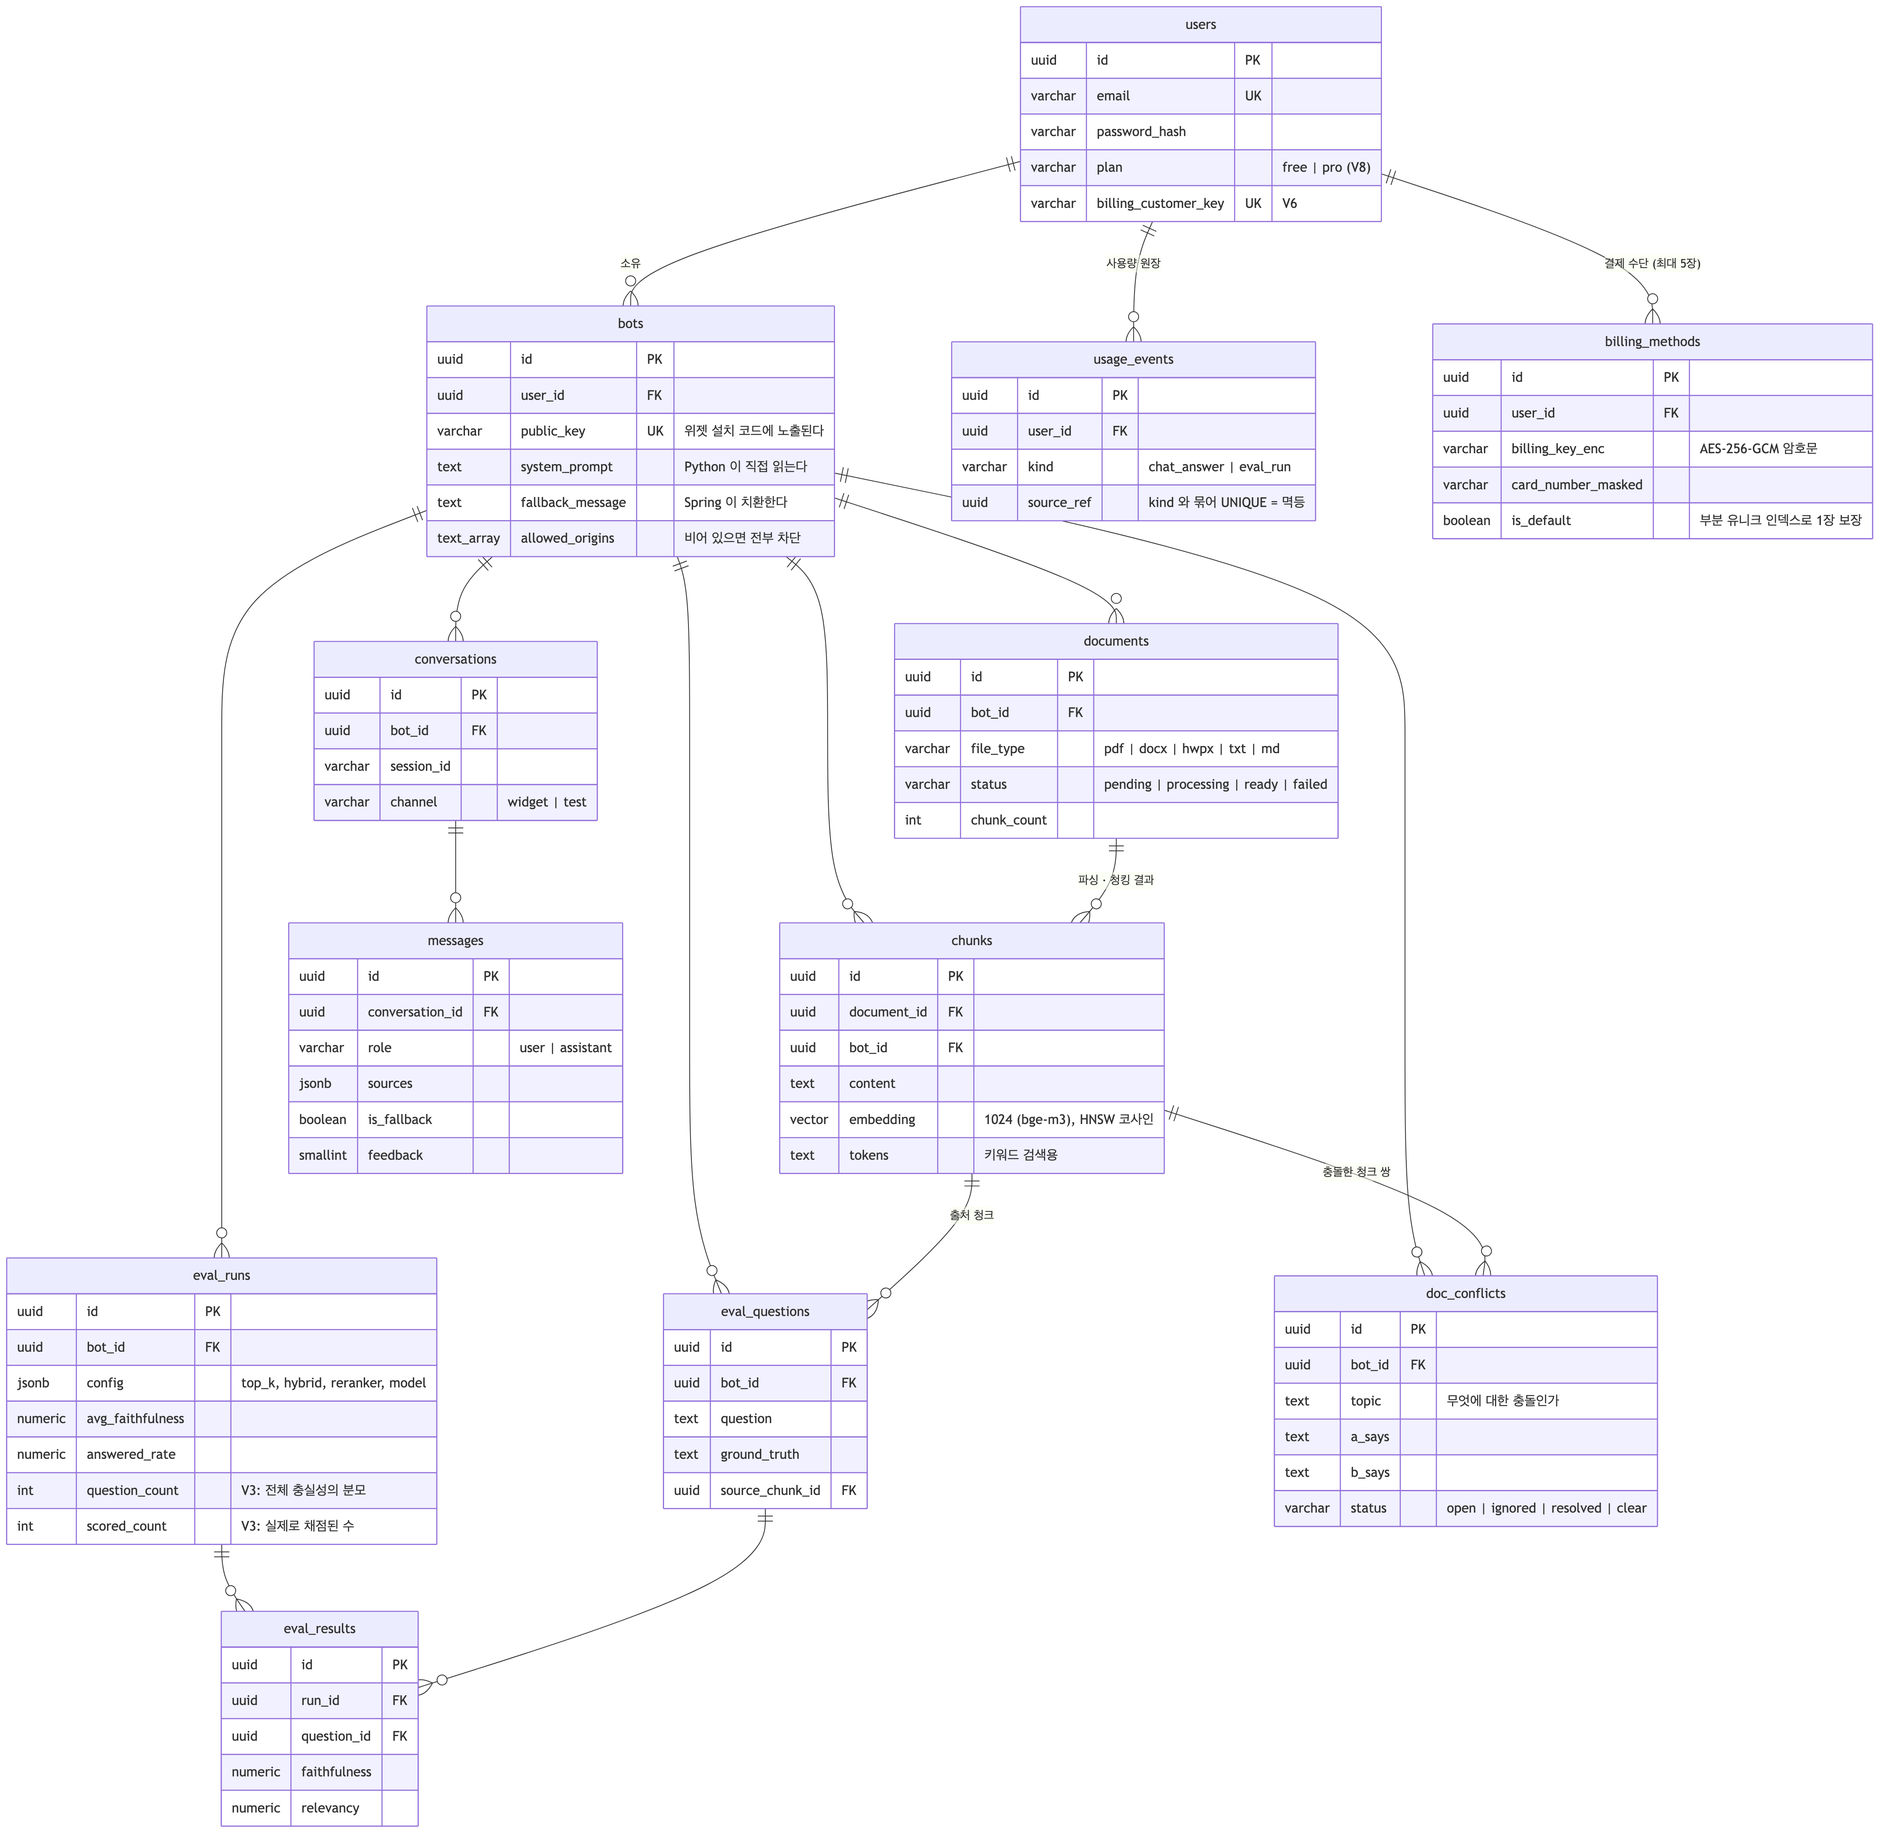
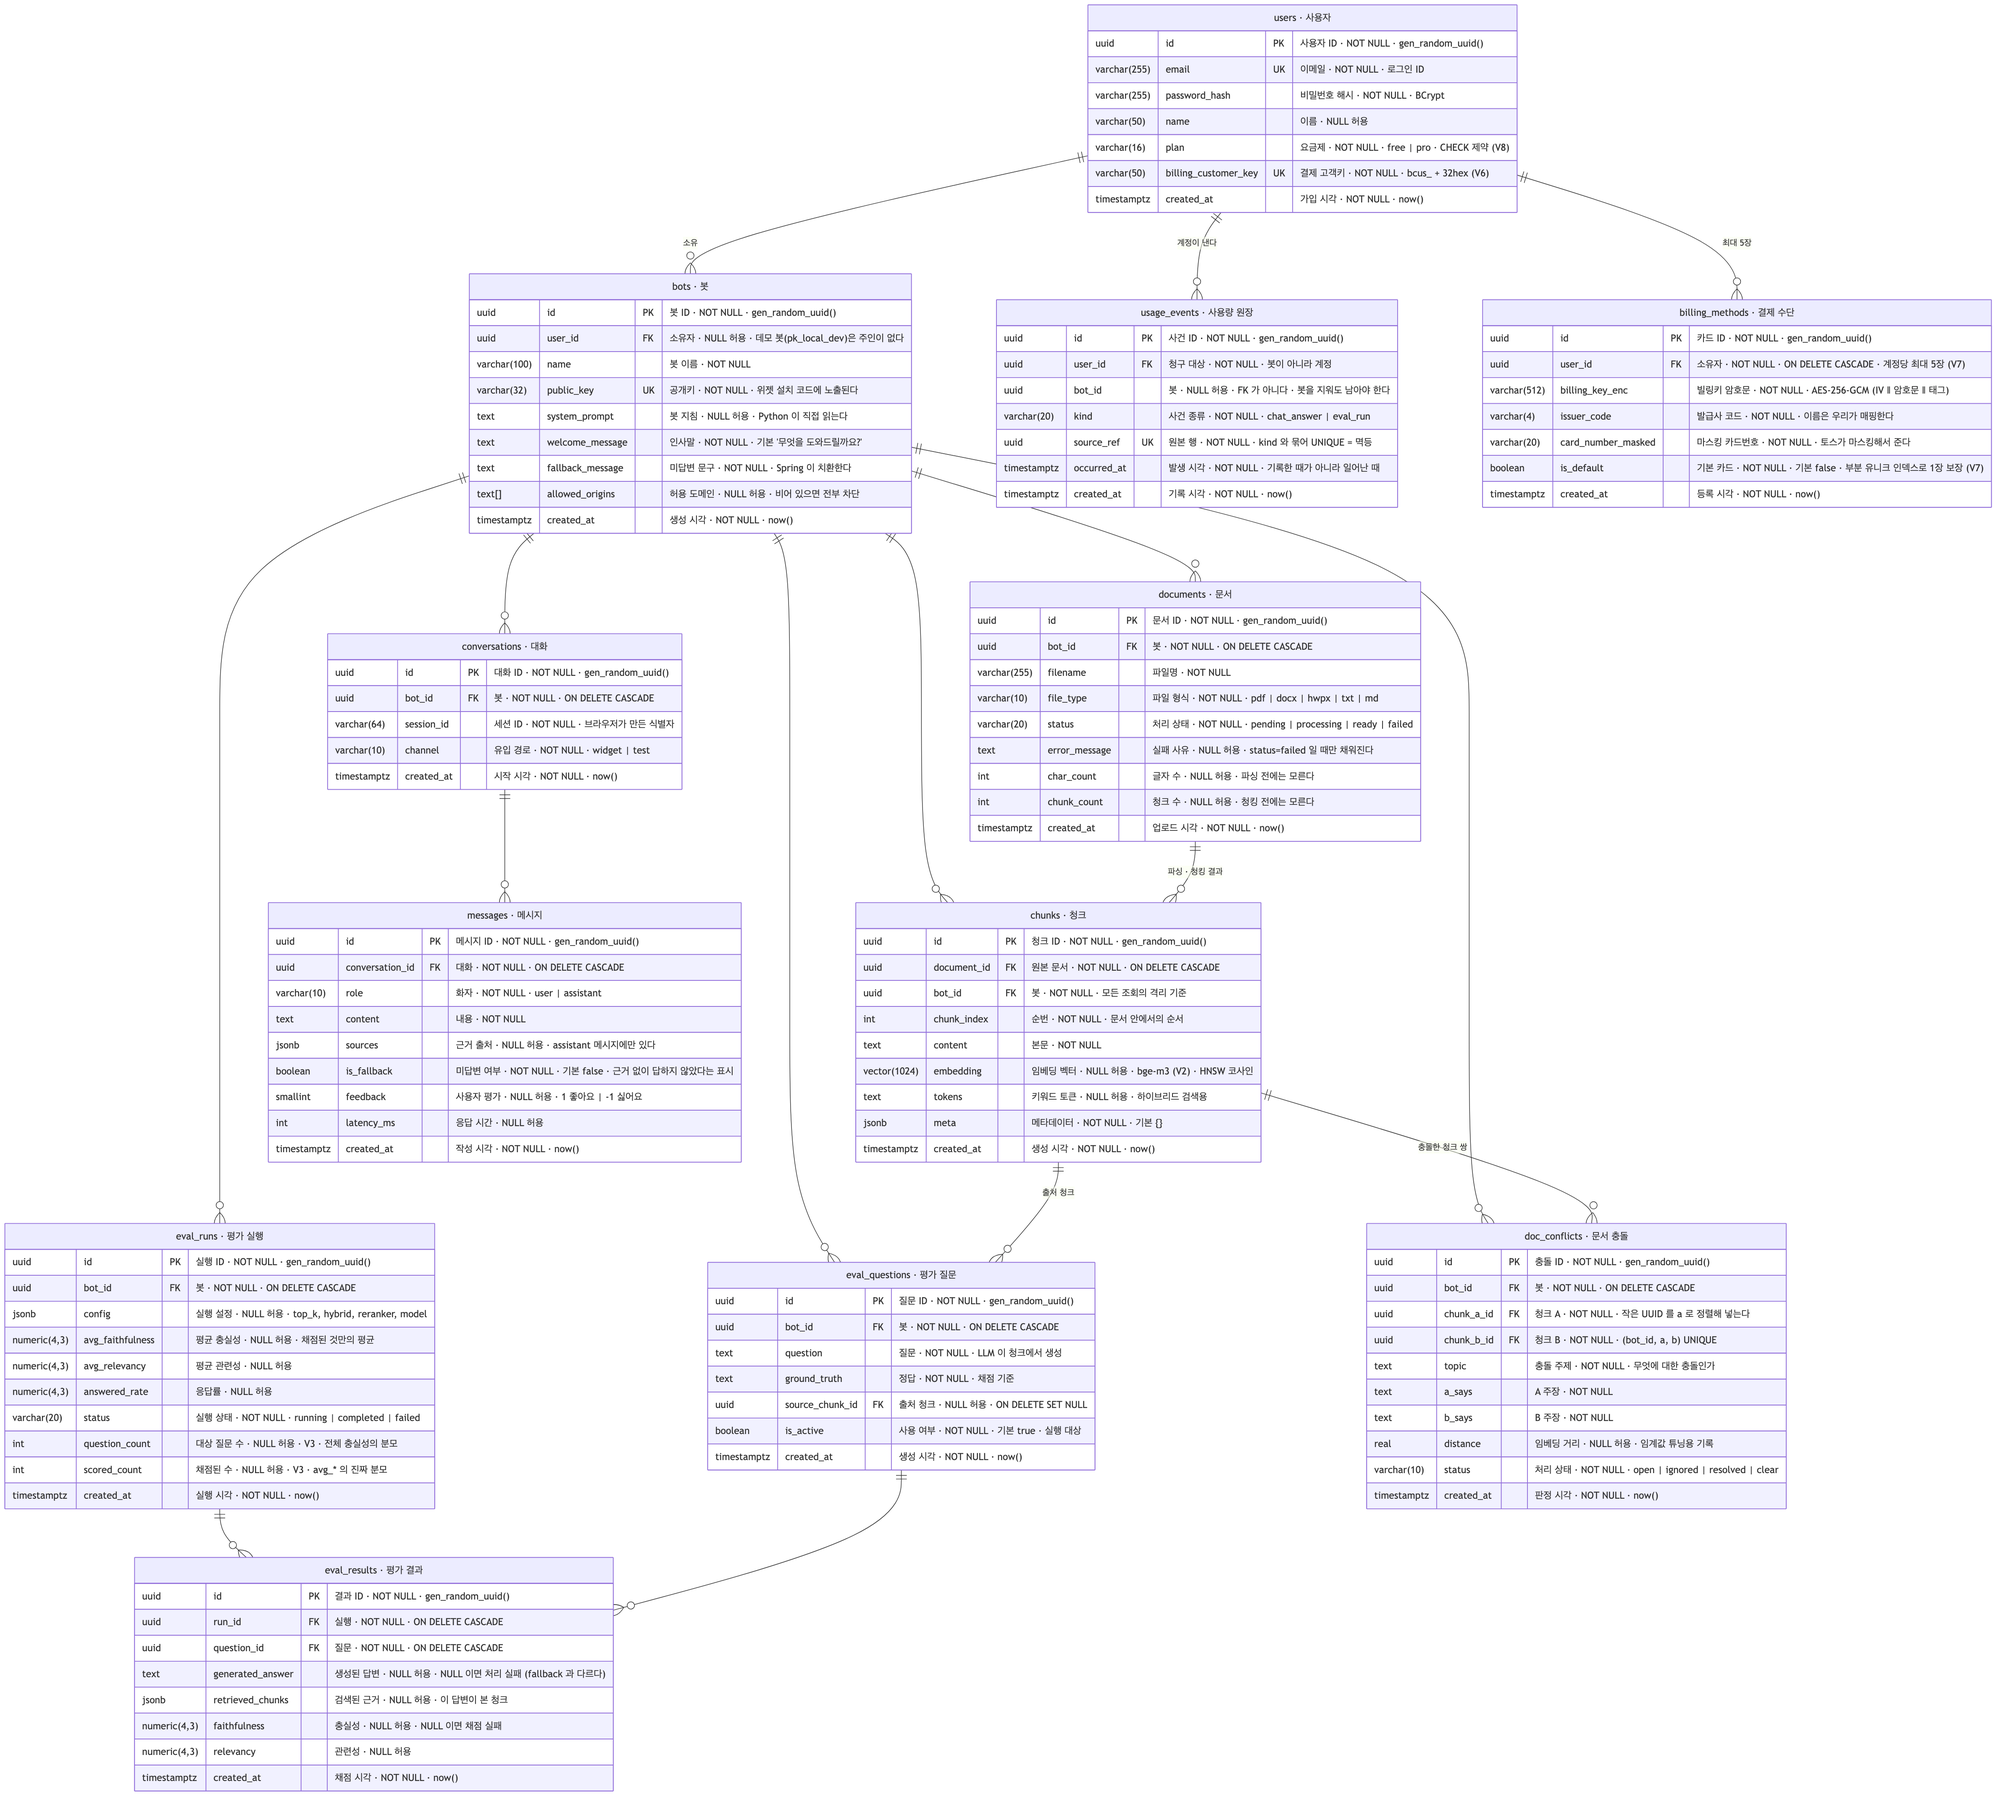
docs: ERD 를 전 컬럼으로 다시 그리고 읽는 법을 덧붙인다
Flyway V1~V8 에 실제로 들어 있는 전 컬럼을 ERD 에 담고,
각 행이 "타입 · 컬럼명 · 키 · 설명" 순이라는 것을 README 에 적었다.

Claude-Session: https://claude.ai/code/session_01JDB22k6bovYwzBrf7n7J2b

diff --git a/README.md b/README.md
@@ -225,6 +225,9 @@ Python 은 이 둘을 건드리지 않습니다.
 
 <img src="docs/images/erd.png" alt="AllDap ERD" width="100%">
 
+> 각 행은 **타입 · 컬럼명 · 키(PK/FK/UK) · 한국어 이름과 NOT NULL 여부, 설명** 순입니다.
+> Flyway 마이그레이션(V1~V8)에 실제로 들어 있는 **전 컬럼**을 담았습니다.
+>
 > 편집용 원본은 [`docs/images/erd.mmd`](docs/images/erd.mmd) (Mermaid) 입니다.
 > 고친 뒤 `npx -p @mermaid-js/mermaid-cli mmdc -i docs/images/erd.mmd -o docs/images/erd.png -w 2400 -s 2 -b white` 로 다시 뽑습니다.
 
